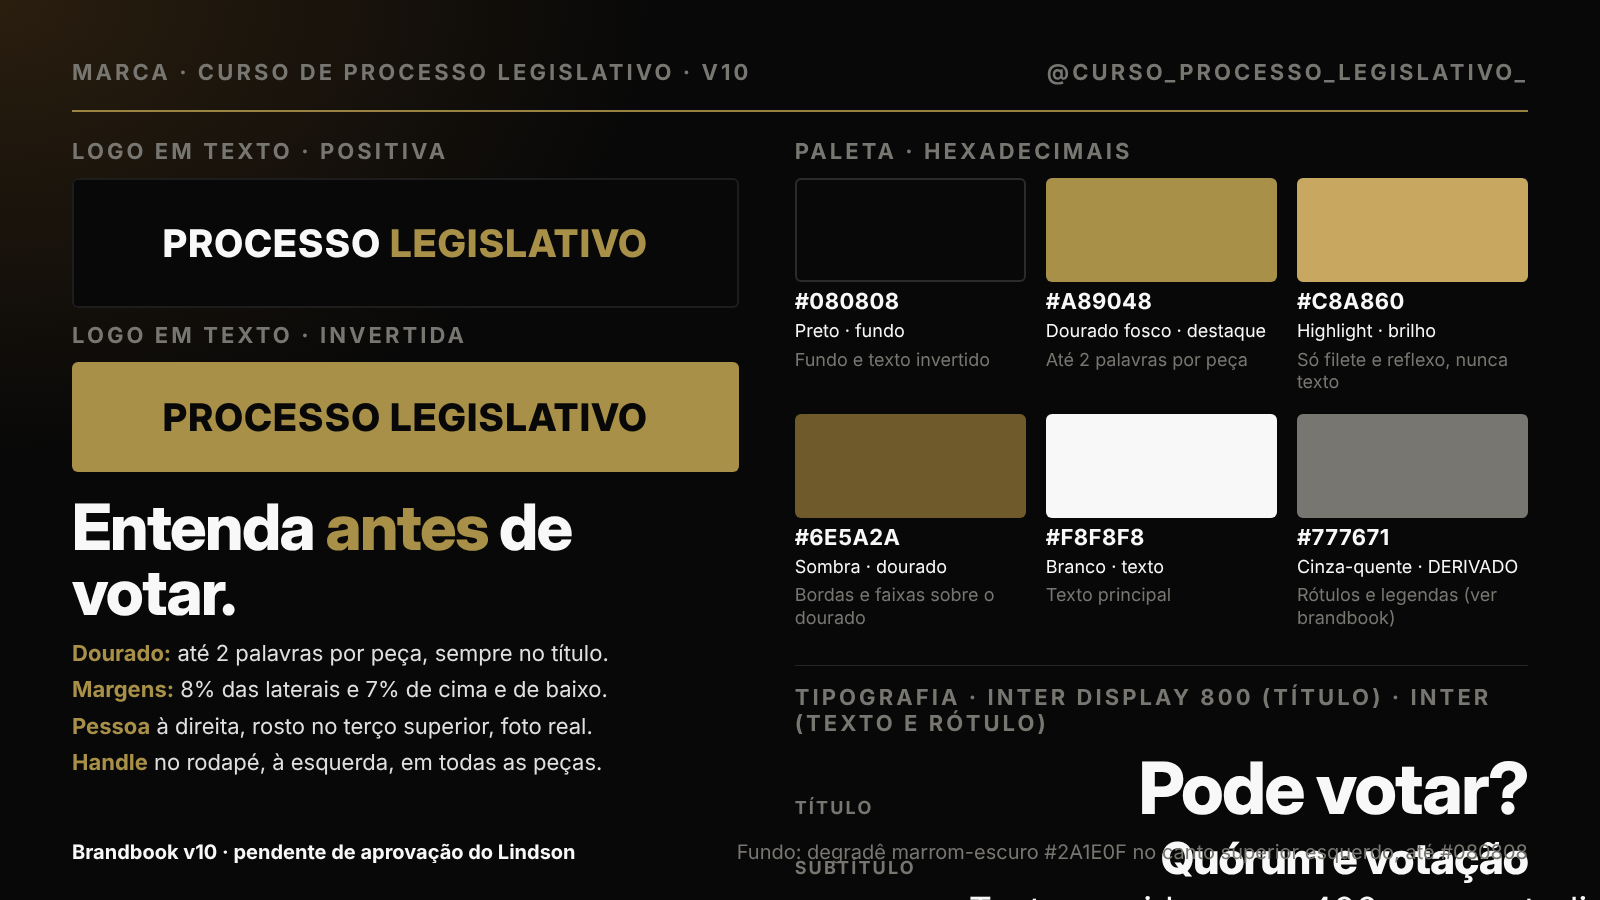
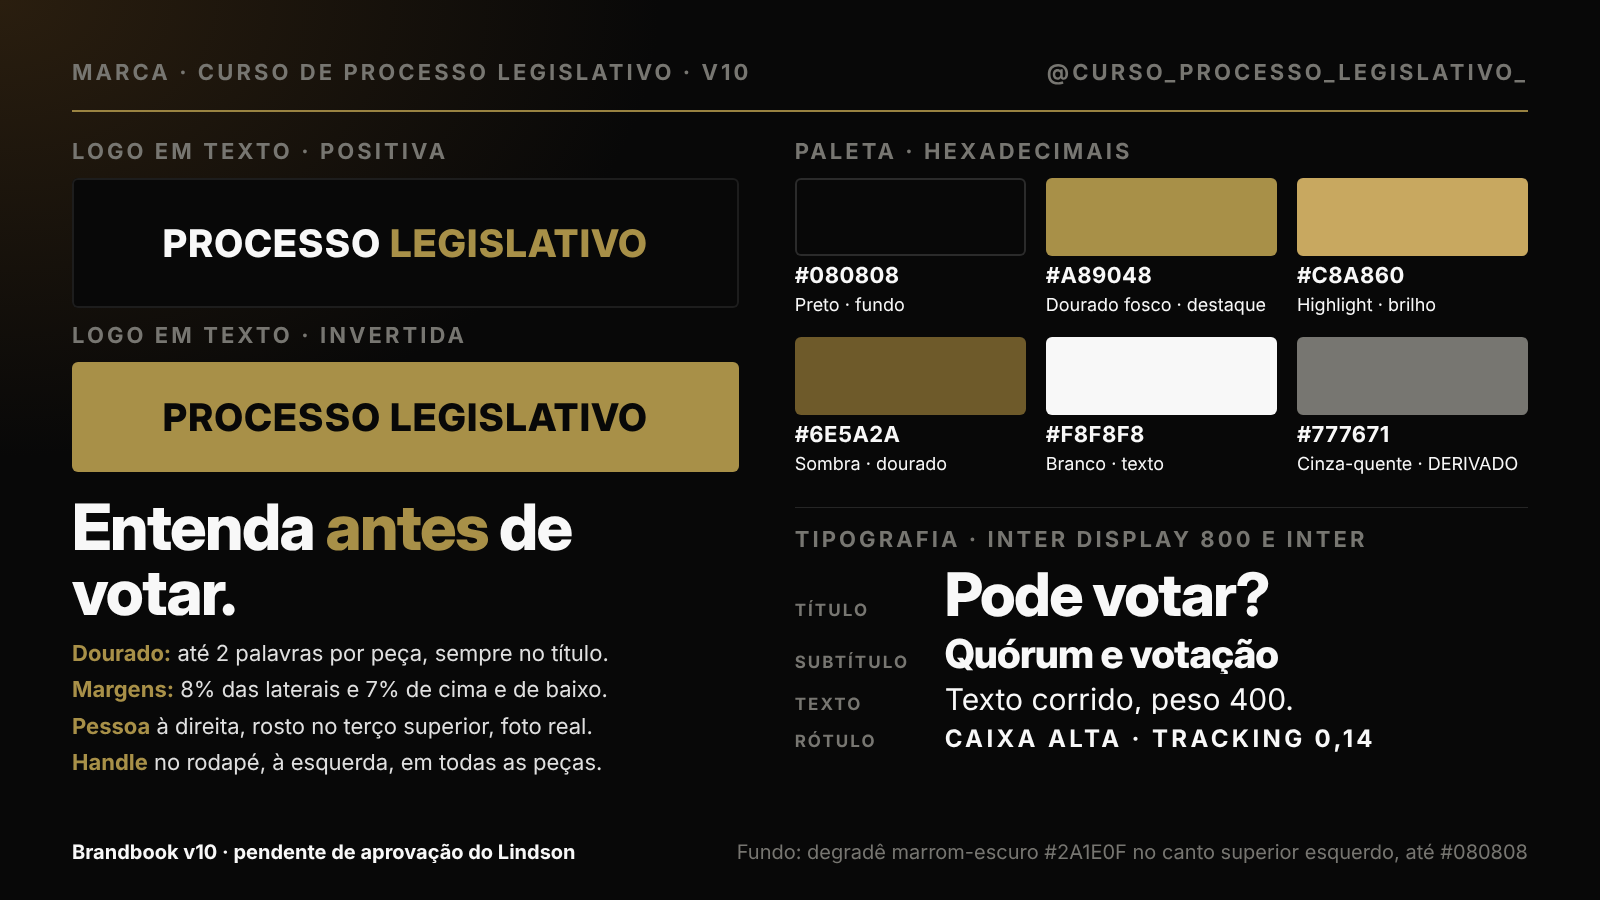
Curso de processo legislativo: prancha de marca v10 atualizada pelo agente de branding
Ajustes na prancha da marca com as cores medidas do template (preto #080808, dourado
#A89048, branco #F8F8F8). Ainda em andamento.

Claude-Session: https://claude.ai/code/session_01KiaatM9QFDA4eAkTbwp9BY

diff --git a/agencia/clientes/curso-processo-legislativo/identidade/gerar-marca-v10.js b/agencia/clientes/curso-processo-legislativo/identidade/gerar-marca-v10.js
@@ -14,7 +14,7 @@ html,body{width:1600px;height:900px;background:var(--preto)}
 .top{display:flex;justify-content:space-between;align-items:center;height:40px}
 .rot{font-weight:700;font-size:22px;letter-spacing:.14em;text-transform:uppercase;color:var(--cinza)}
 .rule{height:2px;background:var(--dourado);margin:18px 0 26px;width:100%;opacity:.9}
-.grid{display:grid;grid-template-columns:minmax(0,1fr) minmax(0,1.1fr);gap:56px;height:610px}
+.grid{display:grid;grid-template-columns:minmax(0,1fr) minmax(0,1.1fr);gap:56px;height:650px}
 .col-h{display:flex;flex-direction:column;gap:14px;min-width:0}
 .box{position:relative;display:flex;align-items:center;justify-content:center;border-radius:6px}
 .logo{font-family:'Inter Display',Inter,Arial,sans-serif;font-weight:800;text-transform:uppercase;letter-spacing:.035em;white-space:nowrap;line-height:1}
@@ -26,16 +26,16 @@ html,body{width:1600px;height:900px;background:var(--preto)}
 .bullets b{color:var(--dourado);font-weight:700}
 .sw{display:grid;grid-template-columns:repeat(3,1fr);gap:20px}
 .card{display:flex;flex-direction:column;gap:6px;min-width:0}
-.chip{height:104px;border-radius:6px}
+.chip{height:78px;border-radius:6px}
 .hex{font-size:22px;font-weight:700;letter-spacing:.02em}
 .desc{font-size:18px;line-height:1.25;color:var(--cinza)}
-.scale{margin-top:22px;display:flex;flex-direction:column;gap:12px;border-top:1px solid rgba(248,248,248,.12);padding-top:18px}
-.srow{display:flex;align-items:baseline;justify-content:space-between;gap:24px}
-.srow .lab{font-size:18px;font-weight:700;letter-spacing:.12em;text-transform:uppercase;color:var(--cinza);width:150px;flex:none}
-.srow .s1{font-family:'Inter Display',Inter,sans-serif;font-weight:800;font-size:72px;line-height:1;letter-spacing:-.025em;white-space:nowrap}
-.srow .s2{font-family:'Inter Display',Inter,sans-serif;font-weight:800;font-size:44px;line-height:1;letter-spacing:-.02em;white-space:nowrap}
-.srow .s3{font-size:36px;line-height:1;white-space:nowrap}
-.srow .s4{font-size:28px;font-weight:700;letter-spacing:.14em;text-transform:uppercase;white-space:nowrap}
+.scale{margin-top:18px;display:flex;flex-direction:column;gap:10px;border-top:1px solid rgba(248,248,248,.12);padding-top:18px}
+.srow{display:flex;align-items:baseline;gap:20px;min-width:0;overflow:hidden}
+.srow .lab{font-size:17px;font-weight:700;letter-spacing:.12em;text-transform:uppercase;color:var(--cinza);width:130px;flex:none}
+.srow .s1{font-family:'Inter Display',Inter,sans-serif;font-weight:800;font-size:60px;line-height:1;letter-spacing:-.025em;white-space:nowrap}
+.srow .s2{font-family:'Inter Display',Inter,sans-serif;font-weight:800;font-size:40px;line-height:1;letter-spacing:-.02em;white-space:nowrap}
+.srow .s3{font-size:30px;line-height:1;white-space:nowrap}
+.srow .s4{font-size:24px;font-weight:700;letter-spacing:.14em;text-transform:uppercase;white-space:nowrap}
 .foot{position:absolute;left:72px;right:72px;bottom:36px;display:flex;justify-content:space-between;gap:24px}
 .foot span{font-size:20px;color:var(--cinza)}
 .foot .h{color:var(--branco);font-weight:700}
@@ -55,7 +55,6 @@ const cardsHtml = swatches.map(s => `
     <div class="chip" style="background:${s.bg};${s.border ? 'box-shadow:inset 0 0 0 2px #2b2b2b' : ''}"></div>
     <div class="hex">${s.hex}</div>
     <div class="desc" style="color:#F8F8F8">${s.name}</div>
-    <div class="desc">${s.d}</div>
   </div>`).join('');
 
 const HTML = `<!doctype html><html lang="pt-BR"><head><meta charset="utf-8"><style>${CSS}</style></head><body>
@@ -89,10 +88,10 @@ const HTML = `<!doctype html><html lang="pt-BR"><head><meta charset="utf-8"><sty
       <div class="rot">Paleta · hexadecimais</div>
       <div class="sw">${cardsHtml}</div>
       <div class="scale">
-        <div class="rot" style="margin-bottom:4px">Tipografia · Inter Display 800 (título) · Inter (texto e rótulo)</div>
+        <div class="rot" style="margin-bottom:2px">Tipografia · Inter Display 800 e Inter</div>
         <div class="srow"><div class="lab">Título</div><div class="s1">Pode votar?</div></div>
         <div class="srow"><div class="lab">Subtítulo</div><div class="s2">Quórum e votação</div></div>
-        <div class="srow"><div class="lab">Texto</div><div class="s3">Texto corrido, peso 400, com entrelinha de 1,4.</div></div>
+        <div class="srow"><div class="lab">Texto</div><div class="s3">Texto corrido, peso 400.</div></div>
         <div class="srow"><div class="lab">Rótulo</div><div class="s4">Caixa alta · tracking 0,14</div></div>
       </div>
     </div>
